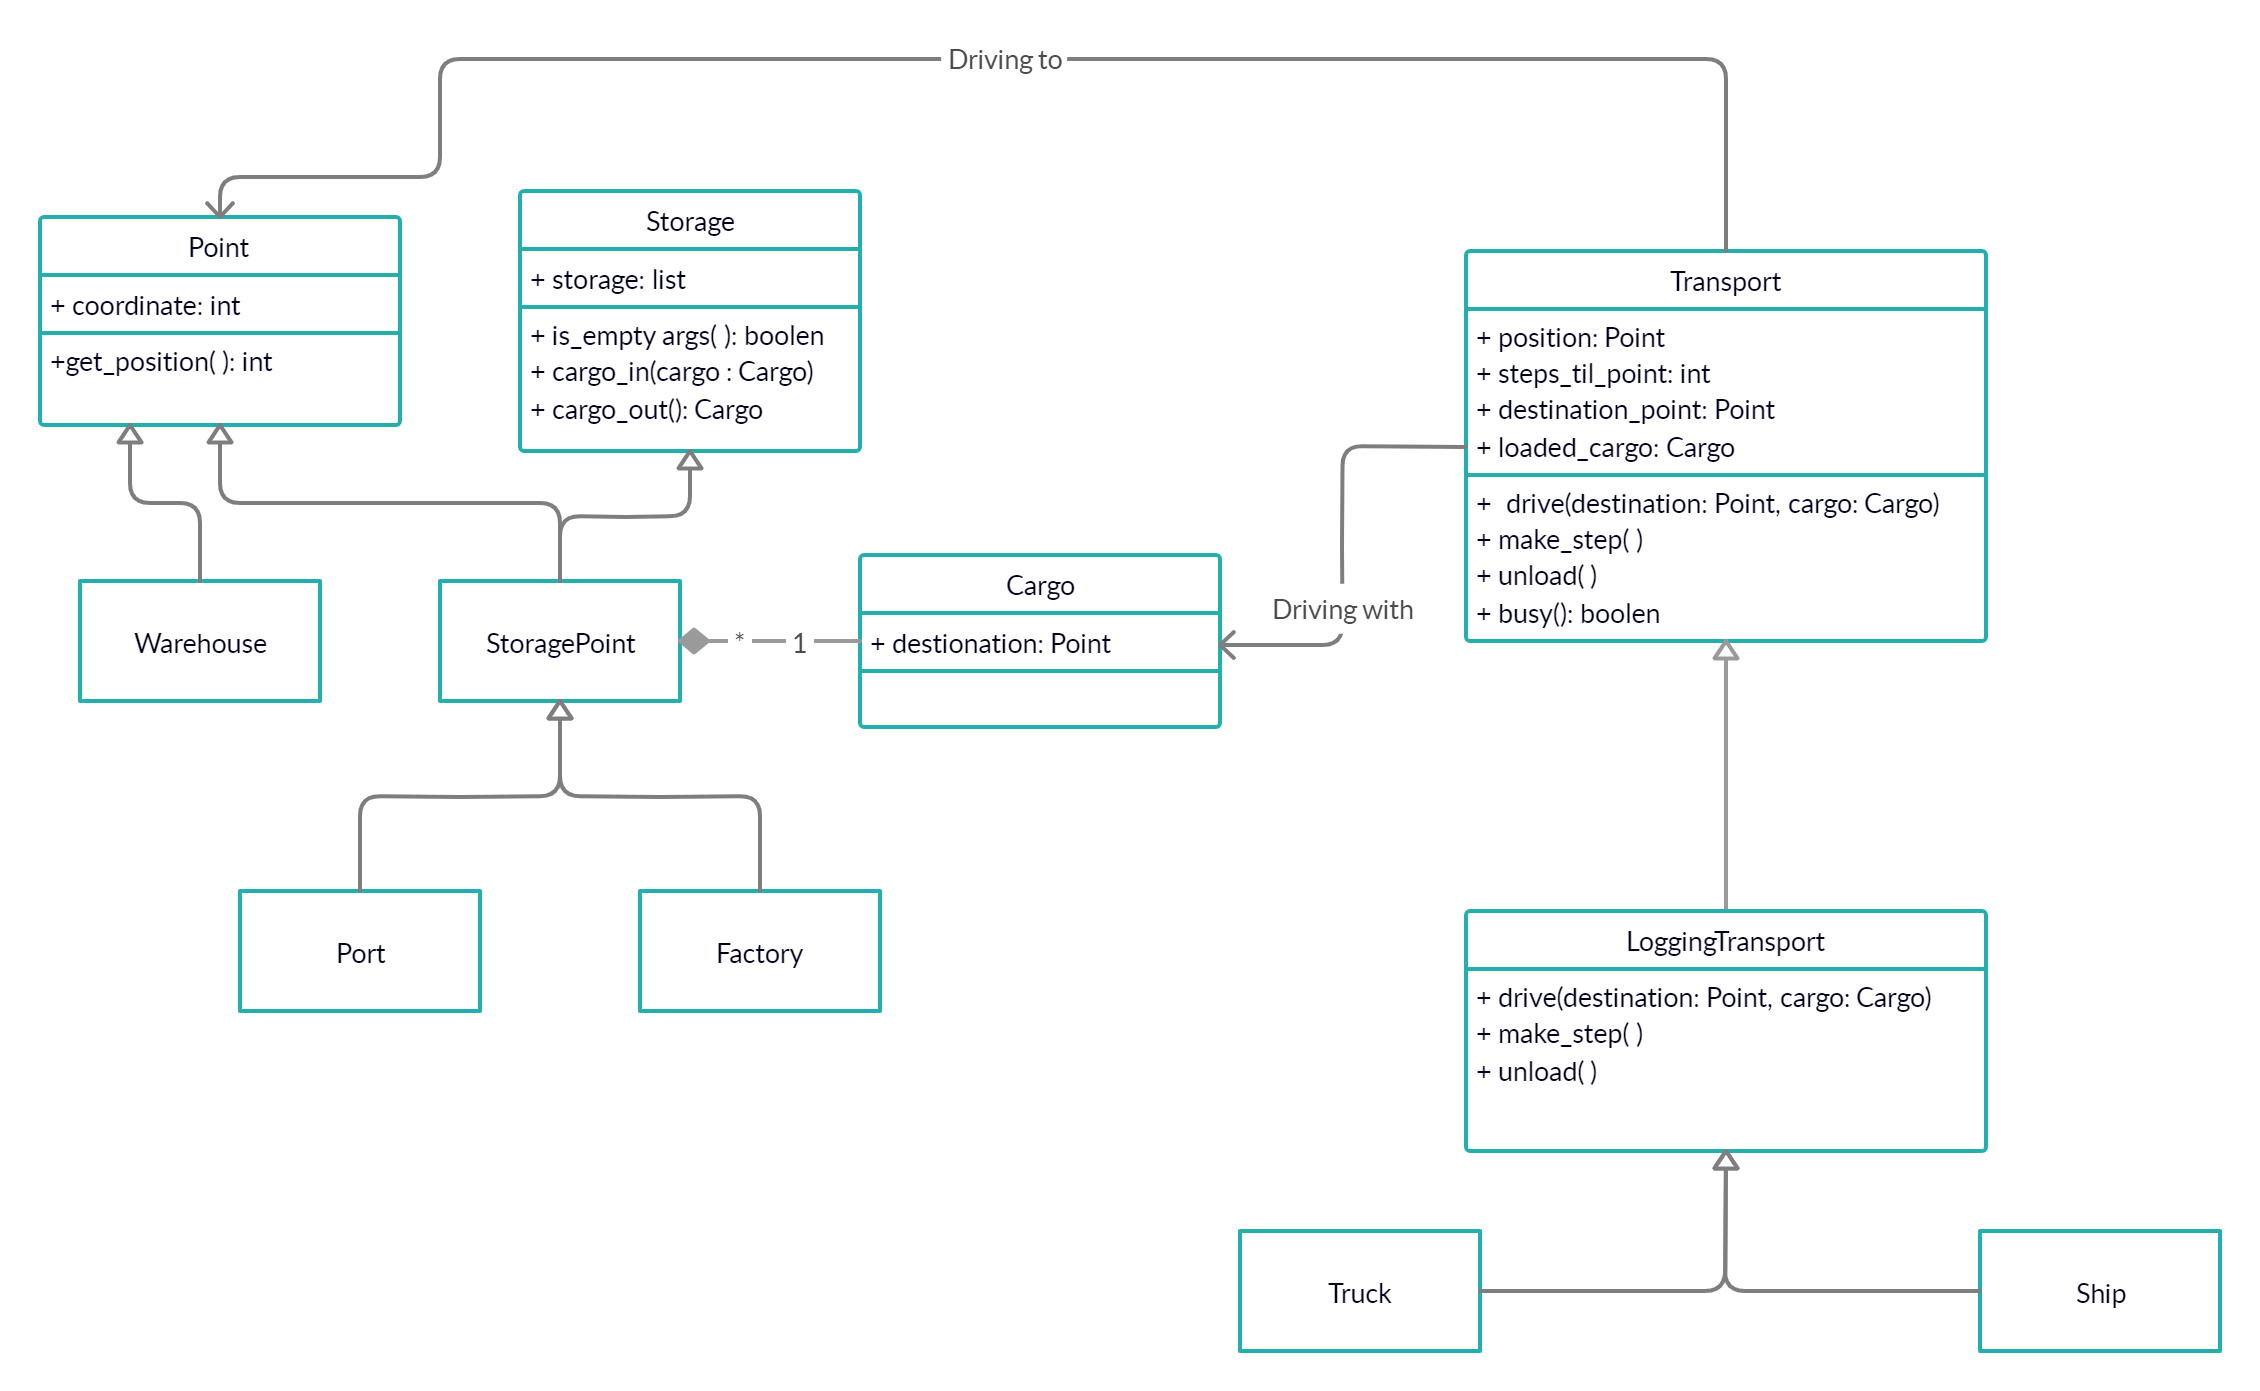
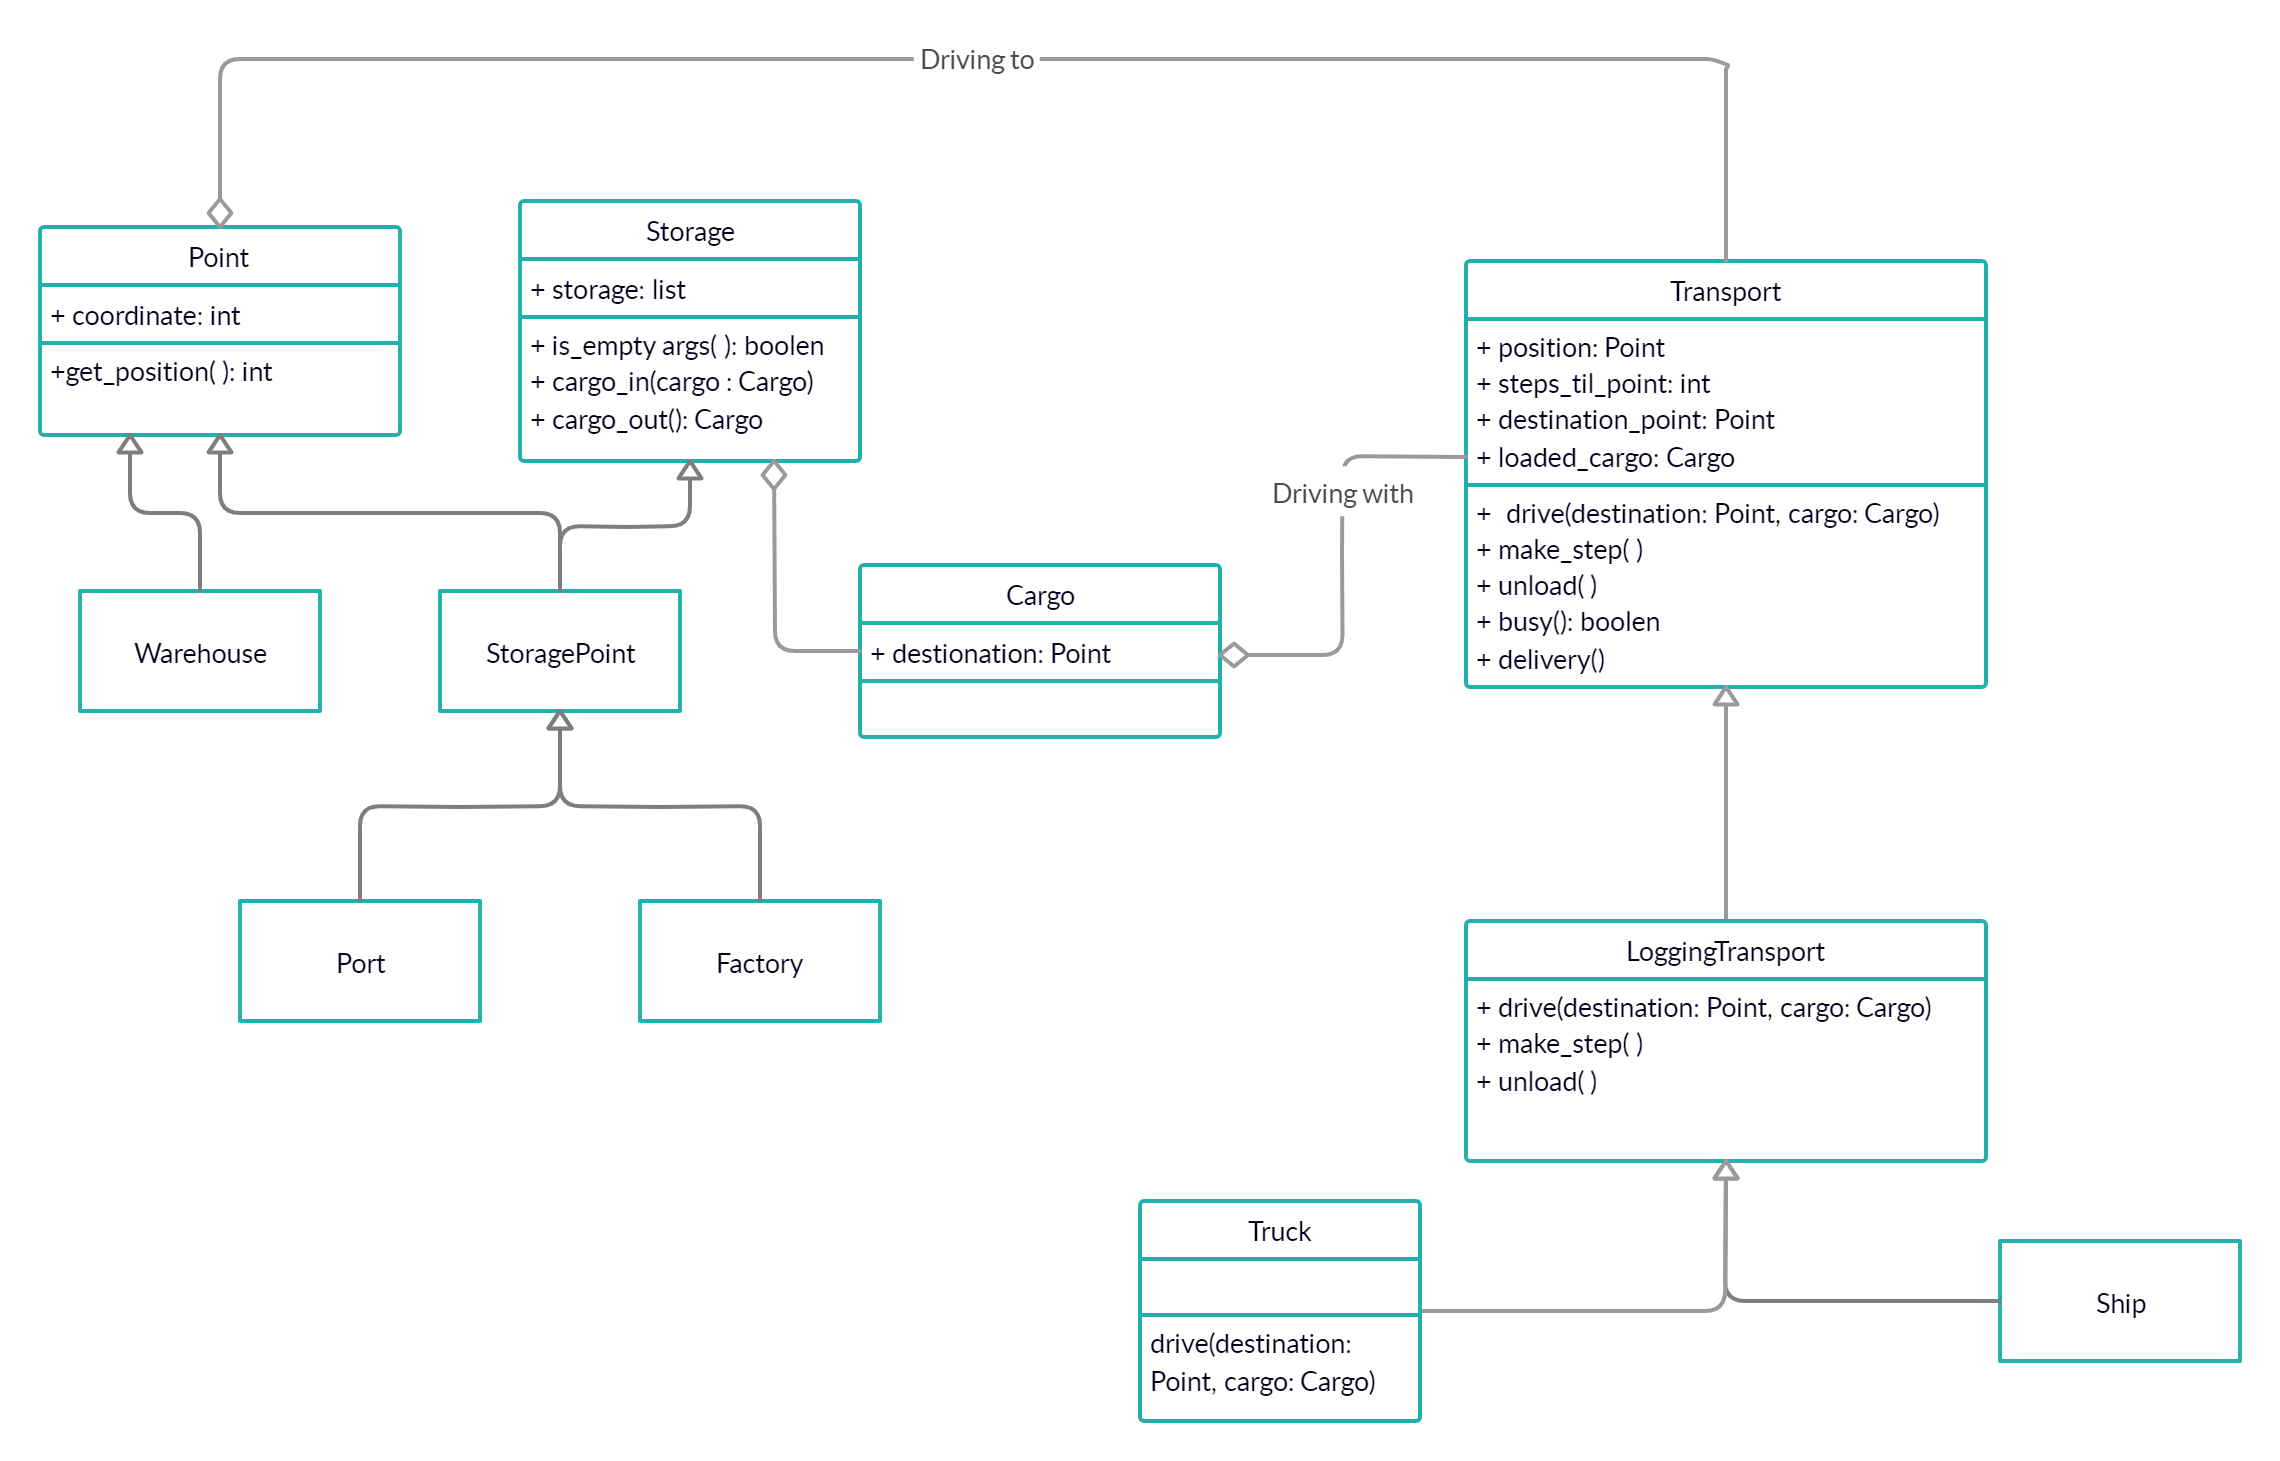
corrections made

diff --git a/11-Object_oriented_design/logistic.py b/11-Object_oriented_design/logistic.py
@@ -93,9 +93,16 @@ class Transport:
         steps_til_point: Number of steps to point.
         destination_point: Where transport is going to
         loaded_cargo: Type of goods loaded on transport
+        global_main_storage: 1st cargo input at the map
+        local_storage:  Storage point where transport  pick ups cargoes
     """
 
-    def __init__(self, start_position: Point):
+    def __init__(self, start_position: StoragePoint, global_main_storage: StoragePoint = None):
+        if global_main_storage is None:
+            global_main_storage = start_position
+        self.global_main_storage = global_main_storage
+        self.local_storage = start_position
+
         self.position = start_position
         self.steps_til_point = 0
         self.destination_point = None
@@ -132,6 +139,25 @@ class Transport:
         """Checks if the transport is in transit."""
         return bool(self.steps_til_point) or bool(self.loaded_cargo)
 
+    def delivery(self):
+        """The function sends the transport to the point
+
+        The function checks stock balances and transport bossiness.
+        After checking the current position, if the transport is not in
+        the storage point send him to storage point back. Else transport pick up
+        goods and  goes to the point  destination of the goods.
+        """
+        if (self.local_storage.is_empty() and self.global_main_storage.is_empty()) or self.busy():
+            return
+        if self.position.get_position() != self.local_storage.get_position():
+            self.drive(self.local_storage)
+            return
+        if self.local_storage.is_empty():
+            return
+        cargo = self.local_storage.cargo_out()
+        point = cargo.destination
+        self.drive(point, cargo)
+
 
 class LoggingTransport(Transport):
     """Special class for logging the transport actions.
@@ -139,6 +165,7 @@ class LoggingTransport(Transport):
     Attributes:
         number: Each type of transport get his unique number.
     """
+
     def __init__(self, number, *args, **kwargs):
         self.number = number
         super().__init__(*args, **kwargs)
@@ -168,36 +195,17 @@ class LoggingTransport(Transport):
 
 class Truck(LoggingTransport):
     """Ground transportation."""
-    pass
+
+    def drive(self, destination: Point, cargo: Cargo = None):
+        """Truck can't go throw water"""
+        if destination is warehouse_a:
+            destination = port
+        super().drive(destination, cargo)
 
 
 class Ship(LoggingTransport):
     """Water transportation."""
     pass
-
-
-def delivery(main_point: StoragePoint, transport: Transport):
-    """The function sends the transport to the point
-
-    The function checks stock balances and transport bossiness.
-    After checking the current position, if the transport is not in
-    the storage point send him to storage point back. Else transport pick up
-    goods and  goes to the point  destination of the goods.
-
-    Args:
-        main_point: The main transport storage point where the transport pick up goods.
-        transport: The type of transport that delivers goods.
-    """
-    if main_point.is_empty() or transport.busy():
-        return
-    if transport.position.get_position() != main_point.get_position():
-        transport.drive(main_point)
-        return
-    cargo = main_point.cargo_out()
-    point = cargo.destination
-    if transport in (truck_1, truck_2) and point is warehouse_a:
-        point = port
-    transport.drive(point, cargo)
 
 
 def get_destination_point(destination: str) -> Point:
@@ -212,14 +220,13 @@ if __name__ == '__main__':
 
     truck_1, truck_2 = Truck(1, factory), Truck(2, factory)
 
-    ship1 = Ship(1, port)
+    ship1 = Ship(1, port, factory)
 
     count_steps = 0
     while any((truck_1.busy(), truck_2.busy(), ship1.busy(), not factory.is_empty(), not port.is_empty())):
         print(f"Turn number {count_steps}\n")
-        delivery(factory, truck_1)
-        delivery(factory, truck_2)
-        delivery(port, ship1)
+        for transport in (truck_1, truck_2, ship1):
+            transport.delivery()
         for transport in (truck_1, truck_2, ship1):
             transport.make_step()
         count_steps += 1
